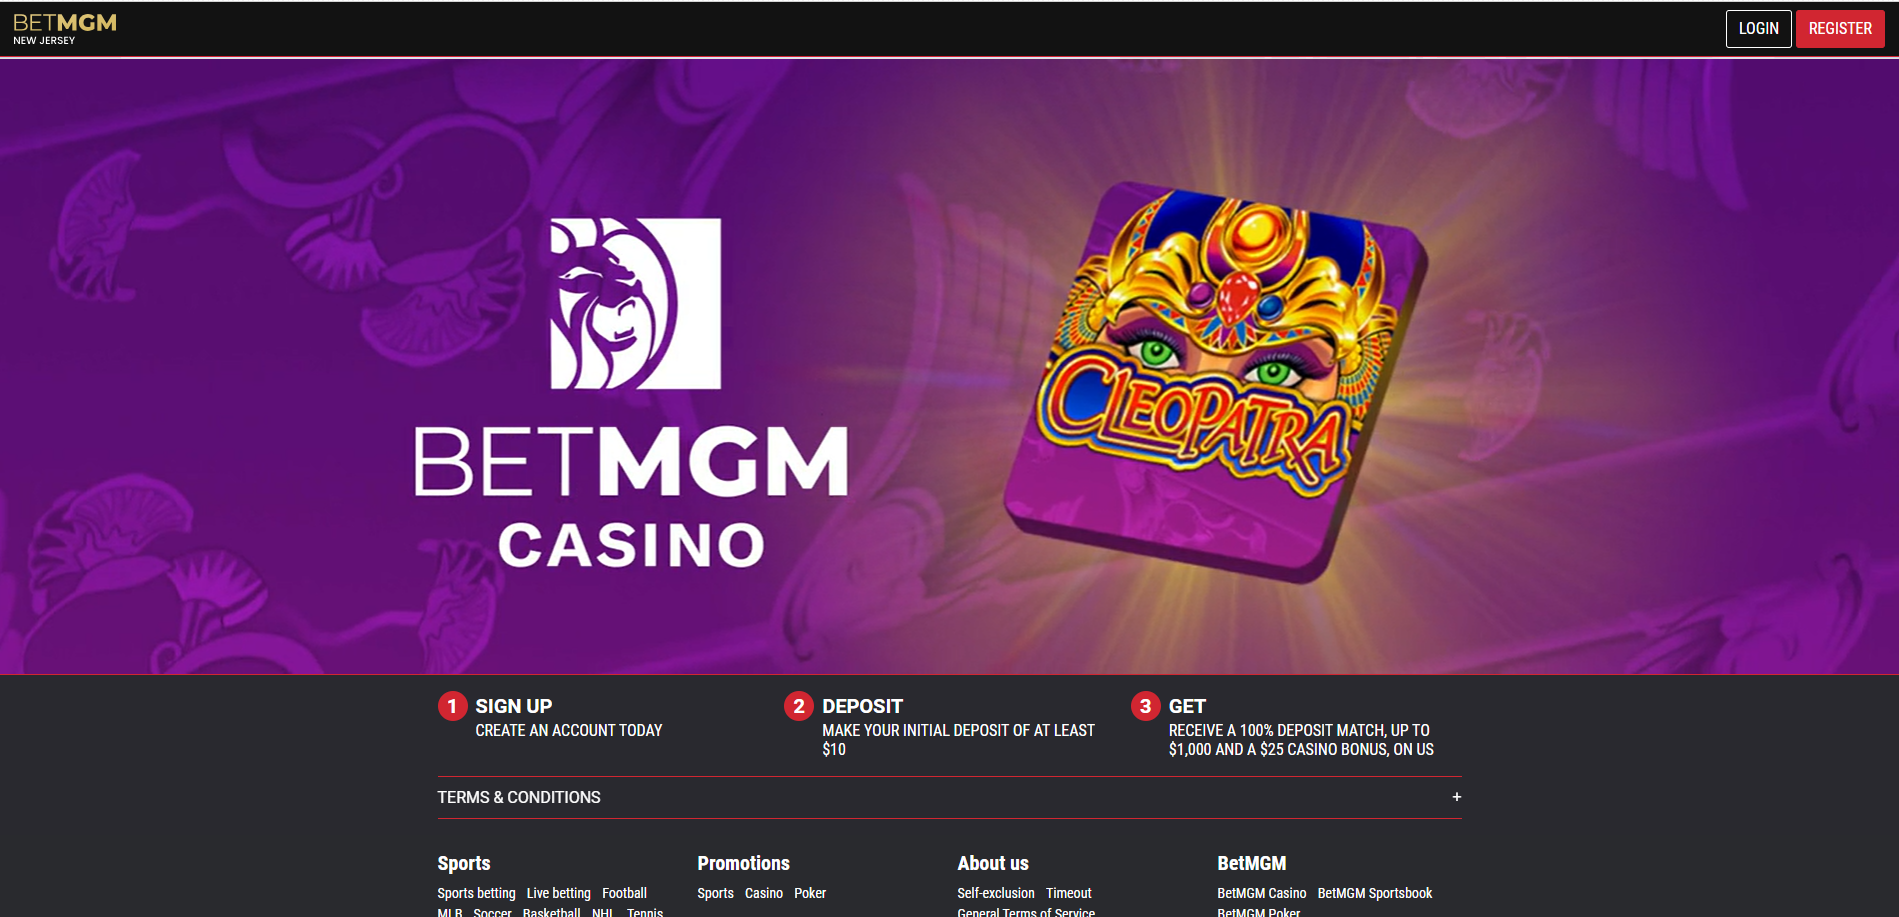
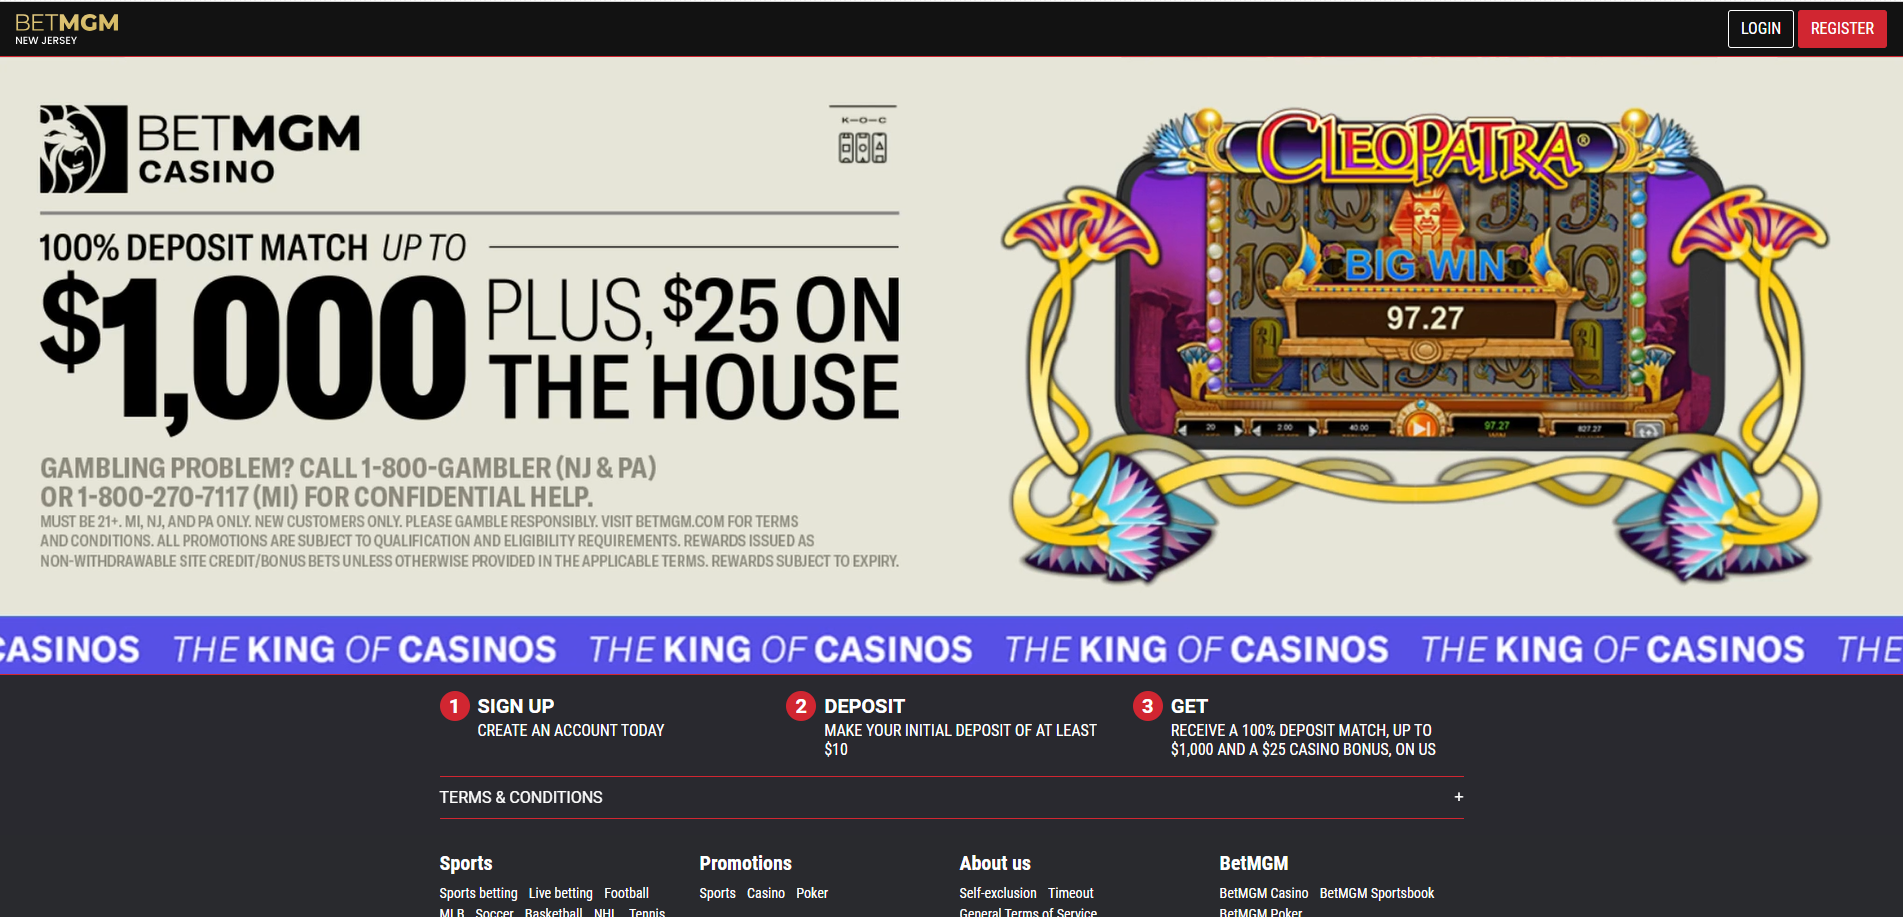
Updated the Landing Page by adding the Motion LP Details

diff --git a/docs/builds/landing-page.md b/docs/builds/landing-page.md
@@ -4,19 +4,34 @@
 sitecore > content > Vanilla.Mobile > state/brand > Promo > casino or sports or poker
 :::
 
-There are two (2) types of Landing Page: Static or Normal Landing Page, and Motion Landing Page. The Latter requires video assets which needs to be uploaded in vimeo, as sitecore only needs the URL of the motion asset.
+There are two (2) types of Landing Page: Static Landing Page, and Motion Landing Page. The Latter requires video assets which needs to be uploaded in vimeo, as sitecore only needs the URL of the motion asset.
 
-#### Sample Normal/Static Landing Page
+### Sample Static Landing Page
 
 ![Landing Page Sample](<../../static/img/builds/landing-page/Landing Page Page.png>)
 
-#### Sample Motion Landing Page
+### Sample Motion Landing Page
 ![Motion Landing Page Sample](<../../static/img/builds/landing-page/motion 1.png>)
 
-## Hero
 
-In this section, you'll edit all images the Landing Page requires. First, you'll need the image URL.
+## Start Building...
+To Build a Landing Page, go to its respective path as seen in the beginning of the page. And duplicate the PromoSimpleContent (file) you need. For Static LP, look for PromoSimpleContent that has this content (refer to image below):  
 
+![Alt text](<../../static/img/builds/landing-page/static lp dup.png>)
+
+For the Motion LP, look for this:  
+
+![Alt text](<../../static/img/builds/landing-page/motion lp dup.png>)
+
+As there are a different Code for these LP, as seen below:  
+
+![Alt text](<../../static/img/builds/landing-page/difference.png>)
+
+### Hero
+
+In this section, you'll edit all images the Landing Page requires. First, you'll need the image URL.  
+
+#### Static LP Hero
 | Key       | Description                                                                                                     |
 | --------- | --------------------------------------------------------------------------------------------------------------- |
 | bg        | asset with **2048x800** size                                                                                    |
@@ -24,15 +39,32 @@ In this section, you'll edit all images the Landing Page requires. First, you'll
 | img-alt   | You can use the **H1 & H2** from the Copy                                                                       |
 | mobile-bg | asset with **1080x1080** size                                                                                   |
 
-To get the image URL go to your creatives, **click the asset** you need, then go to media and **click Open**. It will open a new tab showing the asset **copy the URL of the image**.
+#### Motion LP Hero
+| Key       | Description                                                                                                     |
+| --------- | --------------------------------------------------------------------------------------------------------------- |
+| bg        | still image with **2228x720** size, with promo details (as seen in the sample).                                                                                      |
+| mobile-bg       | still image with **1080x1080** size, with promo details (as seen in the sample) |
+| video-bg   | vimeo link with size **2228x720** then add `?autoplay=1&amp;loop=1&amp;background=1` at the end of the link                                                                     |
+| video-bg-mobile | vimeo link with size **1080x1080** then add `?autoplay=1&amp;loop=1&amp;background=1` at the end of the link                                                                                |
+
+
+To get the image URL go to your creatives, **click the asset** you need, then go to media and **click Open**. It will open a new tab showing the asset **copy the URL of the image** (refer to image below). As for the vimeo link, it is usually given on your Task on Monday else get it from your sub-lead.
 
 ![Landing Page Sample](../../static/img/builds/landing-page/url.png)
 
 Then you'll paste the URL on its respective key:
 
+#### Static LP Hero
 ![Landing Page Sample](../../static/img/builds/landing-page/Hero.png)
 
-## Steps
+#### Motion LP Hero
+In case the video-bg, video-bg-mobile are not in the Hero. You can manually add it by **Clicking the Configure Keys** then add these missing keys.  
+
+![Alt text](<../../static/img/builds/landing-page/motion hero.png>)
+
+For the Next Steps (Steps, and Terms) both Static and Motion have the same format/process.
+
+### Steps
 
 Here, you'll insert the Steps [ACQ 1-2-3] from the Copy.
 
@@ -40,14 +72,14 @@ Here, you'll insert the Steps [ACQ 1-2-3] from the Copy.
 
 > :warning:**Take Note:** Steps should not have any punctation marks at the end, **except Exclamation Point**.
 
-## Terms
+### Terms
 
 This section is where you'll insert the Terms & Condition of the Promotion. Please mind that in the Landing Page, Titles are in **UPPERCASE, No Colon**, and if its under sports **instead of bullet it should be numbers**.
 
-### Casino
+#### Casino
 
 ![Landing Page Sample](../../static/img/builds/landing-page/terms.png)
 
-### Sports
+#### Sports
 
 ![Landing Page Sample](../../static/img/builds/landing-page/sports.png)
